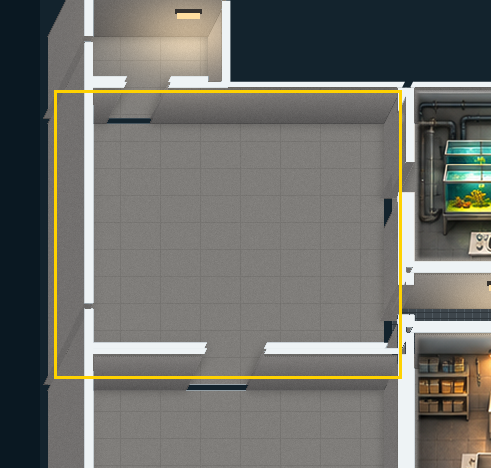
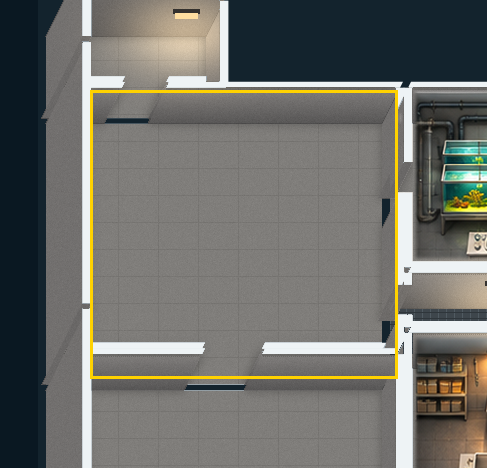
Cutaway spike: west room masks clear of the exterior wall face and locked pixels
Claude-Session: https://claude.ai/code/session_015gowGr7XErynRgXchMmhL4

diff --git a/spikes/cutaway/l2rooms.py b/spikes/cutaway/l2rooms.py
@@ -58,7 +58,7 @@ for rid in ROOMS:
     M = np.zeros((H, W), bool)
     for r in rects:
         fl = np.zeros((H, W), bool); fl[int(Y(r[1])):int(Y(r[1] + r[3])) + 1, int(X(r[0])):int(X(r[0] + r[2])) + 1] = True; M |= fl & isfloor
-        bw = np.zeros((H, W), bool); bw[int(Y(r[1]) - hI * s) + 3:int(Y(r[1])) + 2, int(X(r[0])) + 6:int(X(r[0] + r[2])) + int(sh * hI * s)] = True
+        bw = np.zeros((H, W), bool); bw[int(Y(r[1]) - hI * s) + 3:int(Y(r[1])) + 2, int(X(r[0]) + (sh * hE * 0.6 * s + 4 if r[0] <= 12 else 6)):int(X(r[0] + r[2])) + int(sh * hI * s)] = True   # clear of the west exterior wall's leaning face
         if not any(q is not r and abs(q[1] + q[3] - r[1]) < 0.01 for q in rects): M |= bw & Acut & ~caps      # its own back wall's face
         xe = r[0] + r[2]
         if rid not in NO_EAST_FACE and not any(q is not r and abs(q[0] - xe) < 0.01 for q in rects):                                        # its own east wall's face, the side that looks into the room
@@ -69,6 +69,11 @@ for rid in ROOMS:
     M = np.asarray(Image.fromarray((M * 255).astype(np.uint8)).filter(ImageFilter.MinFilter(3)).filter(ImageFilter.MaxFilter(3))) > 0
     M &= ~grow(caps, 1) & ~lock & ~(Afull & ~Acut)
     if MASKS_ONLY:
+        for f_ in json.loads((pkg / "manifest.json").read_text()).get("locked_files", []): M &= ~grow(np.asarray(Image.open(pkg / f_).convert("L")) > 0, 2)   # never a finished or scripted pixel
+        own = np.zeros((H, W), bool)
+        for r in rects:
+            hw = hE * 0.6 if r[0] + r[2] >= 388 else hI; own[int(Y(r[1]) - hI * s):int(Y(r[1])) + 4, int(X(r[0])):int(X(r[0] + r[2]) + sh * hI * s) + 2] = True; own[int(Y(r[1]) - hw * s):int(Y(r[1] + r[3])) + 2, int(X(r[0] + r[2])) - 3:int(X(r[0] + r[2]) + sh * hw * s) + 2] = True
+        M &= ~(Acut & ~own)   # wall pixels only on its own back and east wall faces
         man = json.loads((pkg / "manifest.json").read_text()); key = next(k_ for k_, v_ in plan["masks"].items() if v_["room"] == rid and v_["box_px"]); ys_, xs_ = np.nonzero(M)
         Image.fromarray((M * 255).astype(np.uint8)).save(pkg / f"mask-{key}.png"); cv = Image.new("L", (1600, 1067), 0); cv.paste(Image.fromarray((M * 255).astype(np.uint8)), (0, 0)); cv.save(pkg / f"canvas-3x2-mask-{key}.png")
         man["regions"][key] |= {"box_px": [int(xs_.min()), int(ys_.min()), int(xs_.max()), int(ys_.max())], "rects": rects, "check": {"kind": "room"}}; (pkg / "manifest.json").write_text(json.dumps(man, indent=1)); print(key, "mask px", int(M.sum())); continue
